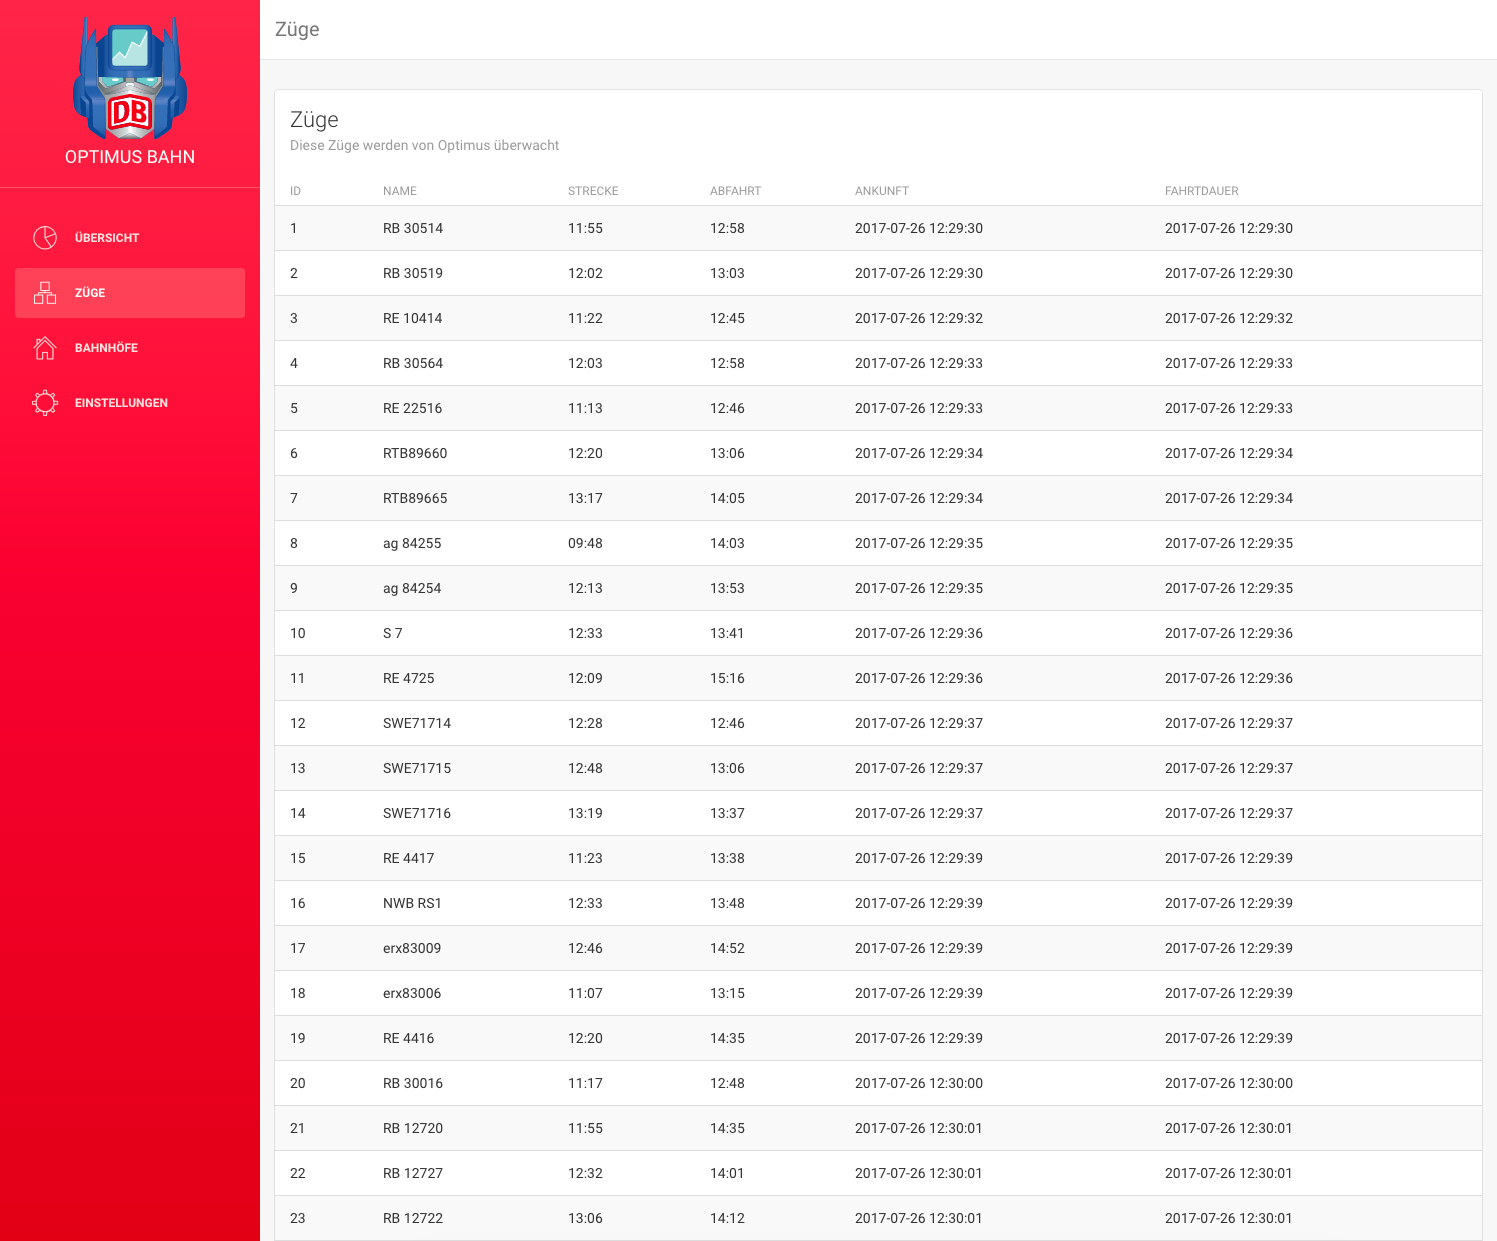
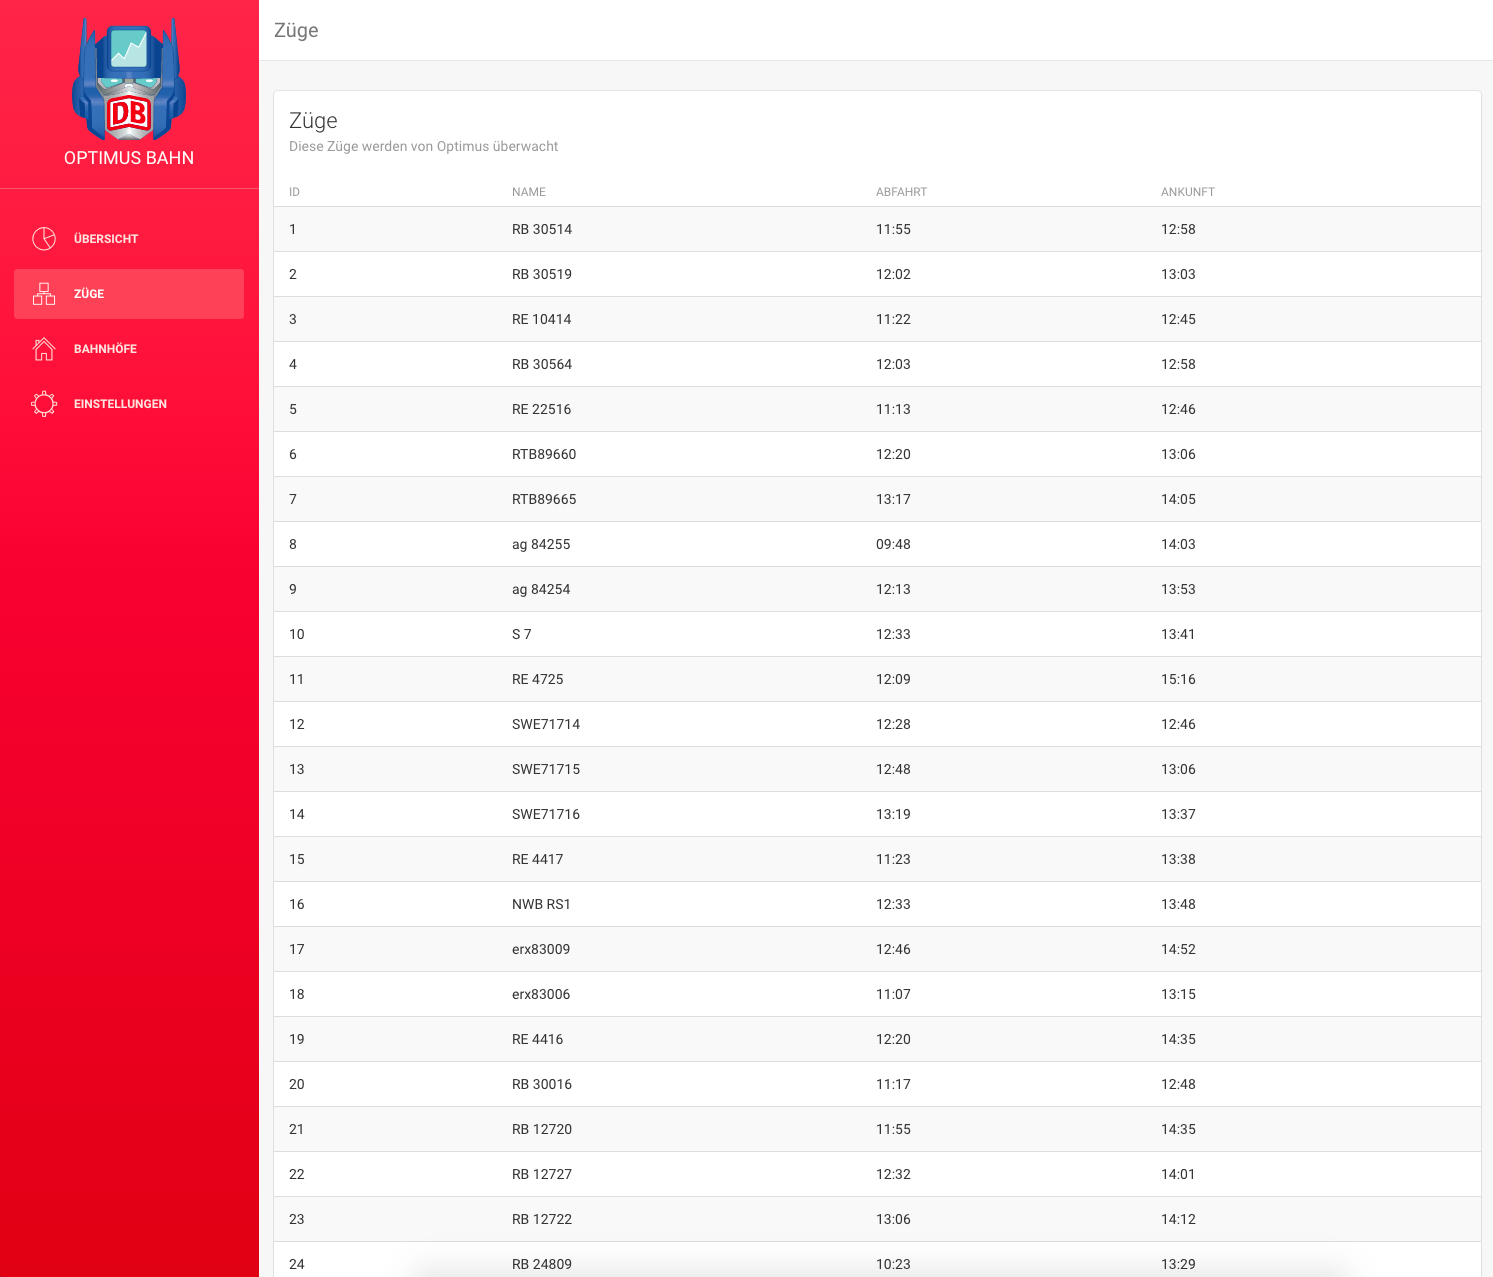
Update screenshots

diff --git a/optimus/api/templates/trains.html b/optimus/api/templates/trains.html
@@ -63,10 +63,8 @@
                                 <thead>
                                 <th>ID</th>
                                 <th>Name</th>
-                                <th>Strecke</th>
                                 <th>Abfahrt</th>
                                 <th>Ankunft</th>
-                                <th>Fahrtdauer</th>
                                 </thead>
                                 <tbody>
                                 {% for train in trains %}
@@ -75,8 +73,6 @@
                                     <td>{{ train[1] }}</td>
                                     <td>{{ train[2] }}</td>
                                     <td>{{ train[3] }}</td>
-                                    <td>{{ train[4] }}</td>
-                                    <td>{{ train[5] }}</td>
                                 </tr>
                                 {% endfor %}
                                 </tbody>

diff --git a/optimus/api/static/optimus/api.js b/optimus/api/static/optimus/api.js
@@ -7,11 +7,15 @@ var Optimus = function () {
 };
 
 Optimus.prototype.initChart24hMonitoring = function () {
+    var max = 0;
     var parse = function (d) {
         var res = [];
         for (var i = 0; i <= 23; i++) {
             data_set = d.results["" + i]
             res.push(data_set.total_delay);
+            if (data_set.total_delay > max){
+                max = data_set.total_delay;
+            }
         }
         return res;
     };
@@ -35,7 +39,7 @@ Optimus.prototype.initChart24hMonitoring = function () {
                 var optionsSales = {
                     lineSmooth: false,
                     low: 0,
-                    high: 400,
+                    high: max + 50,
                     showArea: true,
                     height: "245px",
                     axisX: {

diff --git a/standalone-api.py b/standalone-api.py
@@ -1,2 +1,2 @@
 from optimus.api import api
-api.run(debug=True)
+api.run(debug=True, port=5001)
